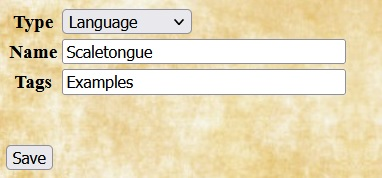
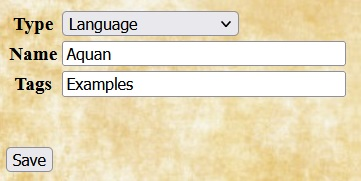
More review of homebrew doc.

diff --git a/plugins/homebrew-srd5e.html b/plugins/homebrew-srd5e.html
@@ -252,12 +252,9 @@ with the Deception and Performance skills.
 <img src='../Images/hb5e-language.jpg' alt='Homebrew Language'/>
 </td><td>
 <p>
-Adding a homebrew language requires only specifying the name. Once added,
-languages can be added to a character by selecting from the language list and
-can be included in the list of languages automatically known by homebrew races.
-</p><p>
-The example shows the entry for a language called Scaletongue, used in
-the example for <a href="#race">adding a race</a>.
+Adding a homebrew language requires only specifying the name. The example shows
+the entry for a language named Aquan&mdash;perhaps the common tongue of
+sentient marine races.
 </p>
 </td></tr>
 
@@ -277,8 +274,8 @@ requirements, Quilvyn provides the Prerequisite entry to allow you to specify a
 race that has, for example, a minimum strength requirement. Most races will
 have fixed features, such as an ability adjustment. Quilvyn also allows
 entering selectable features to support variations such as sub-races.
-Each feature in these lists will require <a href="#feature">adding a feature</a>
-to describe its effects.
+Each feature in these lists will require <a href="#feature">adding a homebrew
+feature</a> to describe its effects.
 </p><p>
 The example shows the entry for the Lizardfolk race from the Monster Manual.
 Features for this race are: Natural Armor, Hold Breath, Multiattack, Language
@@ -308,7 +305,7 @@ The example shows the entry for a school named Control.
 </td><td>
 <p>
 When adding a homebrew skill, Quilvyn displays fields for the skill's related
-ability and the list of classes which are proficient in the skill.
+ability and the list of classes that are proficient in the skill.
 </p><p>
 The example shows the entry for a Sailing skill, which is related to
 Intelligence. Fighters and Rangers are proficient in the skill.
@@ -345,7 +342,7 @@ slot level above 4th.
 <p>
 When adding a homebrew weapon, Quilvyn displays fields that allow you to enter
 the weapon's category (Unarmed, Simple Melee or Ranged, or Martial Melee or
-Ranged), properties, and (for ranged weapons) range increment.
+Ranged), properties, and (for ranged weapons) standard and long range values.
 </p><p>
 The example shows the entry for a boomerang, a martial ranged weapon with a
 30'/120' range that inflicts 1d4 damage.
@@ -373,10 +370,9 @@ this:
 <h2>Using attributes in prerequisites</h2>
 
 <p>
-In the core rulebook, many feats and all prestige classes have
-prerequisites&mdash;attribute values that the character must have to take the
-feat or a level in the prestige class. Quilvyn allows you to specify similar
-prerequisites when entering a homebrew class, feat, or race.
+Some core feats include prerequisites&mdash;attribute values that the character
+must have to take the feat or a level in the prestige class. Quilvyn allows you
+to specify similar prerequisites when entering a homebrew class, feat, or race.
 </p><p>
 Since the effects of the Alert Dodger feat come from battle experience, it
 makes sense to require a minimum proficiency bonus&mdash;say, 3&mdash;to take
@@ -386,10 +382,10 @@ the feat. This is represented by adding text to the feat's Prerequisite field:
 
 <p>
 Quilvyn will generate tests for this requirement and will show a validation
-error if a character with no Fighter levels is given this feat. You can also
-specify that the character must have a specific feature as part of your
-prerequisites. For the Alert Dodger feat, it seems reasonable to require that
-the character also have the Evasion feature:
+error if a character with a proficiency bonus of 2 or less is given this feat.
+You can also specify that the character must have a specific feature as part of
+your prerequisites. For the Alert Dodger feat, it seems reasonable to require
+that the character also have the Evasion feature:
 </p>
 <img src='../Images/hb5e-attr-2.jpg' alt='Alert Dodger feat'/>
 
@@ -470,10 +466,11 @@ skillModifiers. prefixes are not necessary:
 Some feats, many class and race features, and some spells have effects that
 vary based on character attributes. For example: the PHB Inspiring Leader feat
 gives allies a number of temporary hit points based on the character's level
-and charisma modifier; the Dwarven Toughness race increases the character's hit
-points by 1 per level; the Paladin's Lay On Hands feature allows the character
-to heal hit points equal to five times their level; and the damage inflicted by
-the <i>Acid Splash</i> spell increases at levels 5, 11, and 17.
+and charisma modifier; the Dwarven Toughness race feature increases the
+character's hit points by 1 per level; the Paladin's Lay On Hands feature
+allows the character to heal hit points equal to five times their level; and
+the damage inflicted by the <i>Acid Splash</i> spell increases at character
+levels 5, 11, and 17.
 </p><p>
 You can embed references to character attributes in the text of feature notes
 and spell descriptions by enclosing them within the characters %{}. Using this
@@ -508,7 +505,7 @@ feature and the Fighter's Survivor feature look like this:
 <code>R30' May use an action to inflict frightened on target (DC %{charismaModifier+8+proficiencyBonus} Will neg)</code><br/>
 <code>Regains %{constitutionModifier+5} HP each rd when between 1 and %{hitPoints//2} HP</code>
 </p><p>
-As theses notes shows, individual notes and descriptions can contain multiple
+As these notes show, individual notes and descriptions can contain multiple
 embedded references, and individual references can use multiple attributes.
 </p><p>
 Within embedded references, Quilvyn supports the common comparison operators
@@ -612,8 +609,8 @@ useful in entering homebrew feats, features, classes, and races.
 </td><td>
 <ul style="padding-left: 15px; margin-top: 0">
 <li>features.&lt;name&gt;, e.g.<br/>
-  features.Dodge<br/>
-  features.Precise Shot</li>
+  features.Evasion<br/>
+  features.Small</li>
 <li>languages.&lt;name&gt;, e.g.,<br/>
   languages.Abyssal<br/>
   languages.Halfling</li>
@@ -632,7 +629,6 @@ useful in entering homebrew feats, features, classes, and races.
 <li>toolProficiency.&lt;name&gt;, e.g.,<br/>
   toolProficiency.Bagpipe<br/>
   toolProficiency.Herbalism Kit</li>
-<li>skillPoints</li>
 </ul>
 </td>
 </tr></table>
